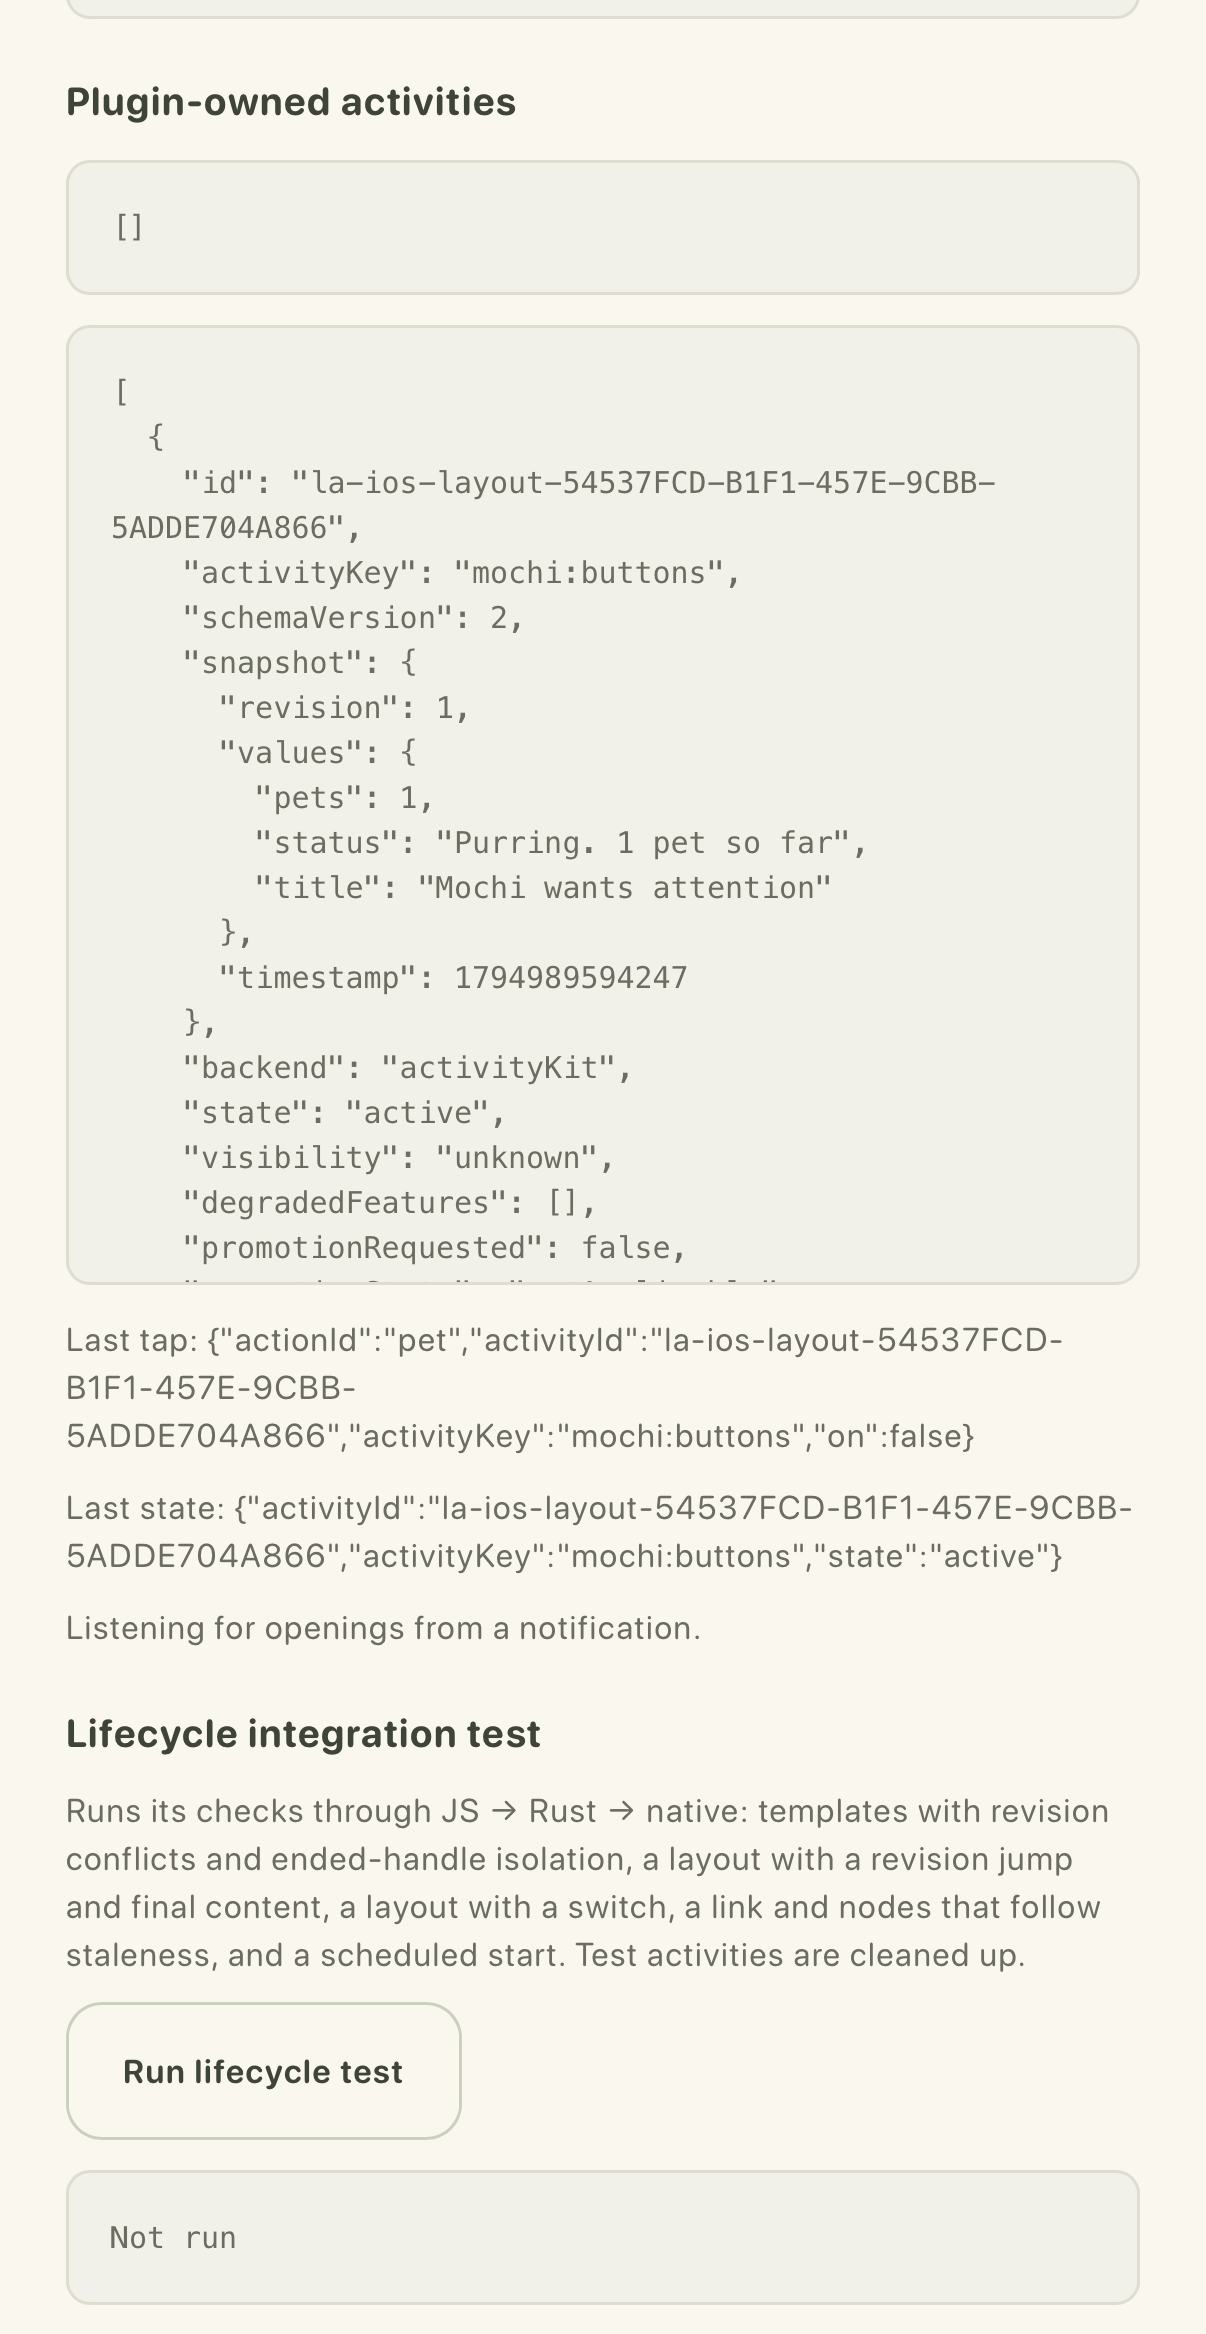
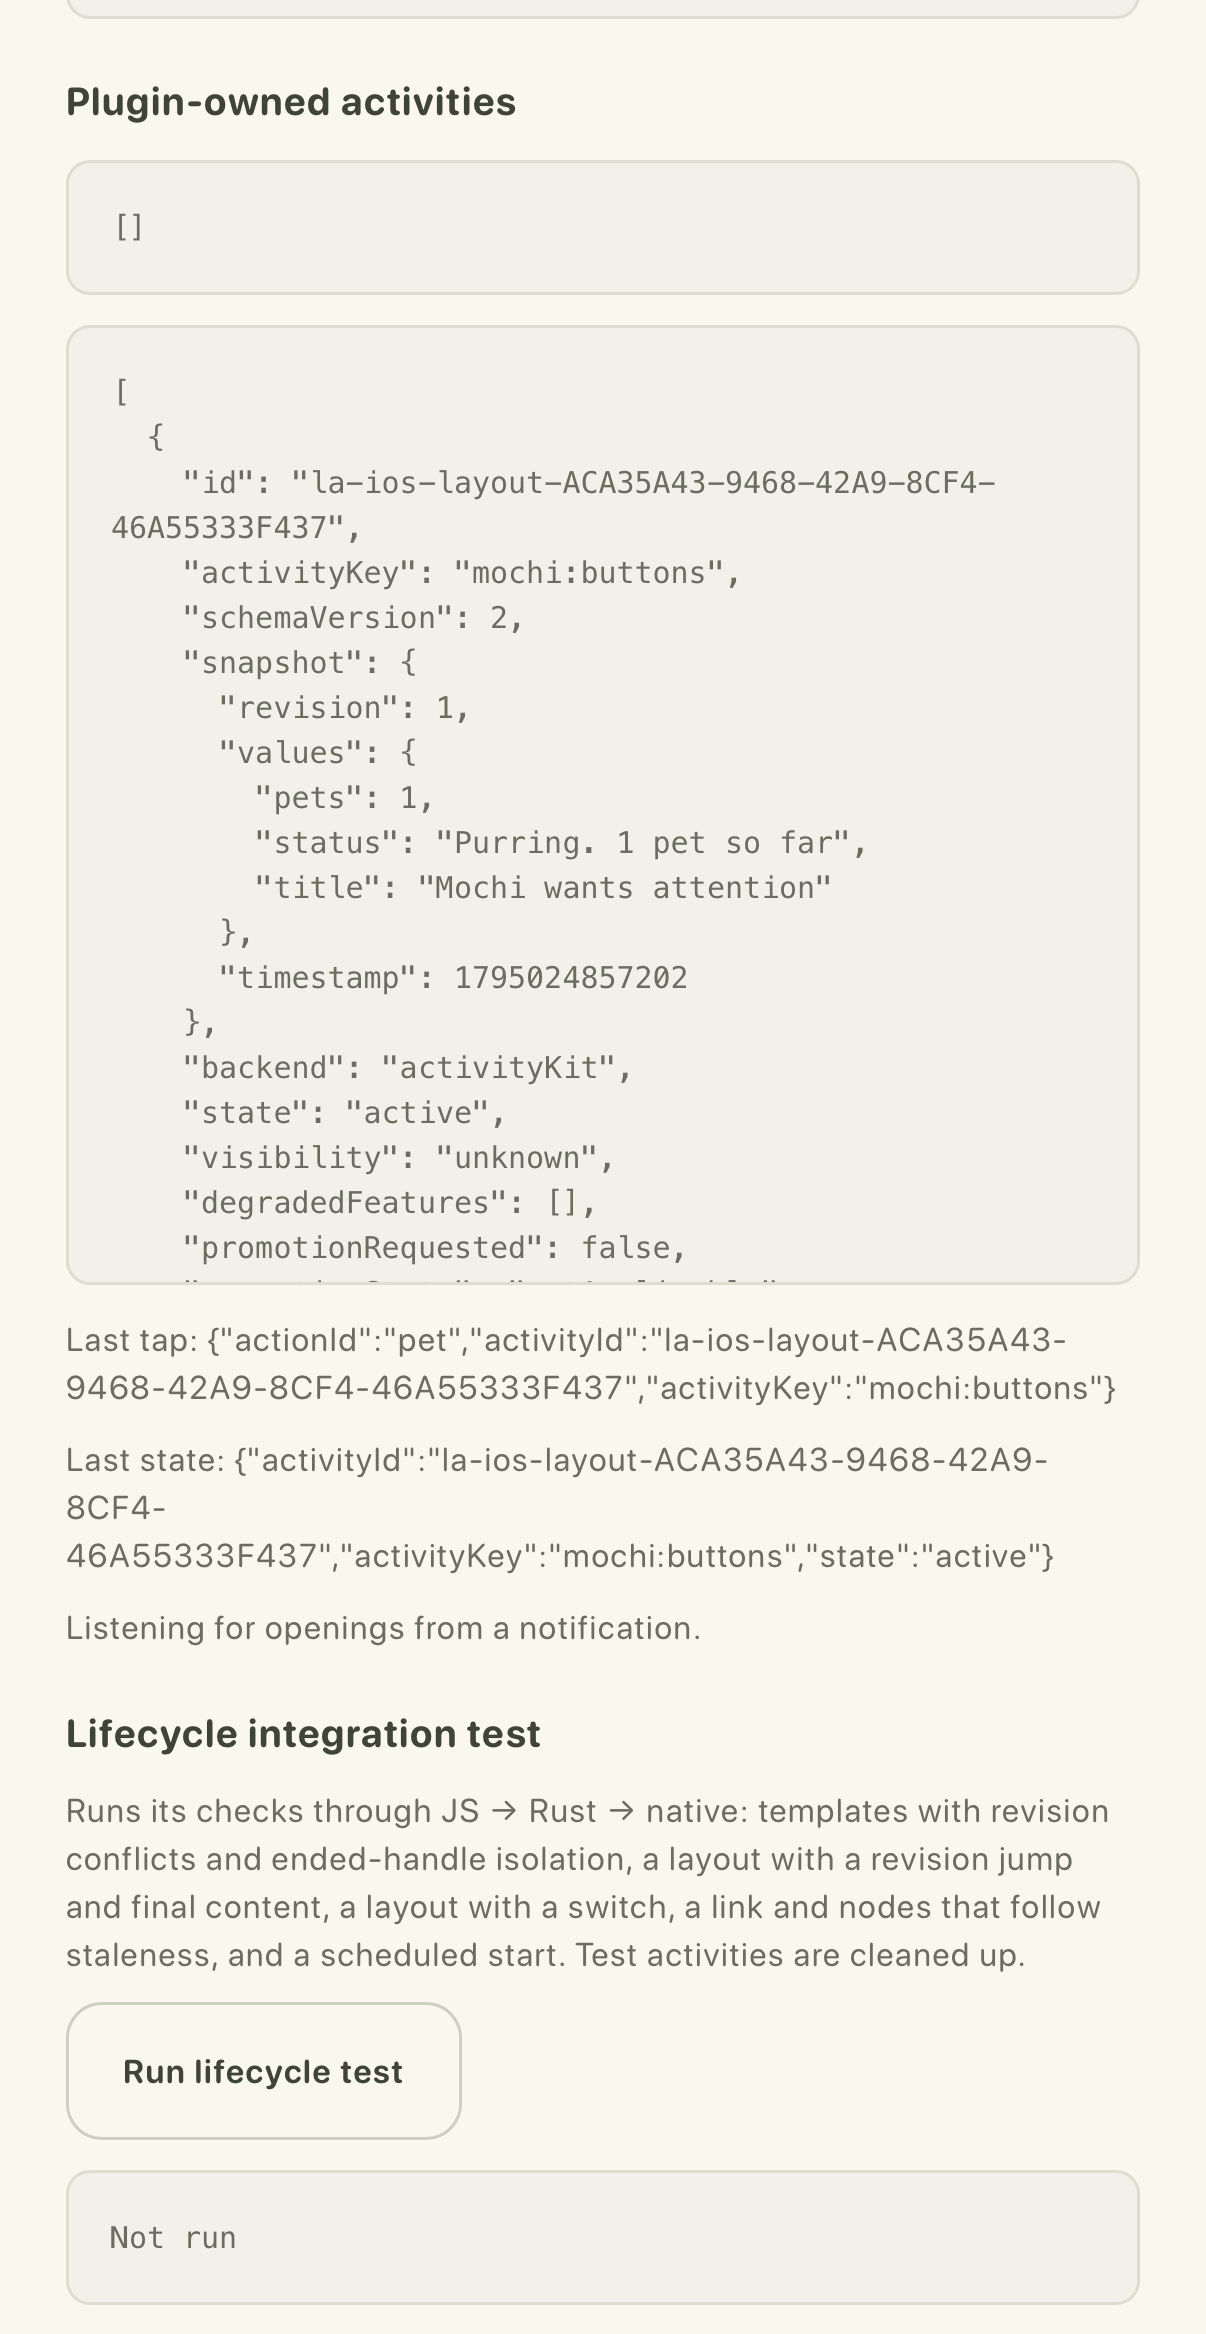
docs: the picture of a button's tap as the page hears it now
docs/images/ios-demo-tap.png is taken again with `DemoScreens/test4TapsReachRust` on the iPhone 17 Pro simulator with iOS 26.3, from the commit before this one: the record of the Buttons example at revision 1 and `Last tap: {"actionId":"pet","activityId":"…","activityKey":"mochi:buttons"}`, with no `on`. The picture it replaces showed the tap with `on: false`. Its framing is the same, 1206 x 2334.

The changelog's first line no longer says "again": a tap had a state from the first version with toggles.

diff --git a/CHANGELOG.md b/CHANGELOG.md
@@ -2,7 +2,7 @@
 
 ## Unreleased
 
-On iOS the tap of a button comes without `on` again. Built on liveactivity 0.7.5 and activitykit 0.6.4, with
+On iOS the tap of a button comes without `on`. Built on liveactivity 0.7.5 and activitykit 0.6.4, with
 liveupdate 0.4.1 as before. Nothing changes in the JavaScript and Rust APIs or in the permissions.
 
 - On iOS the tap of a button reaches `on_action` and `onAction` without `on`, as the contract says: `on` is a
